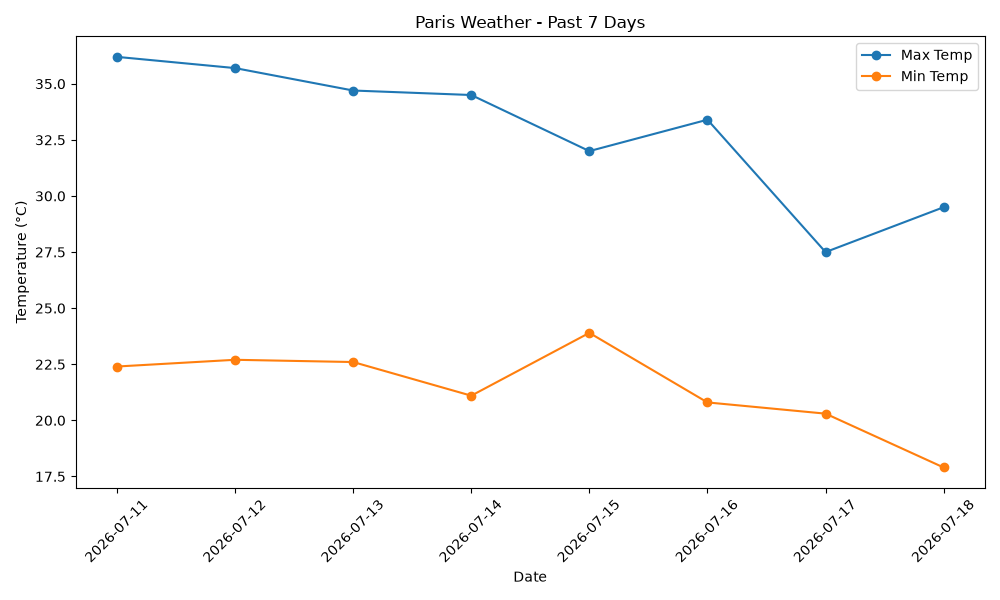
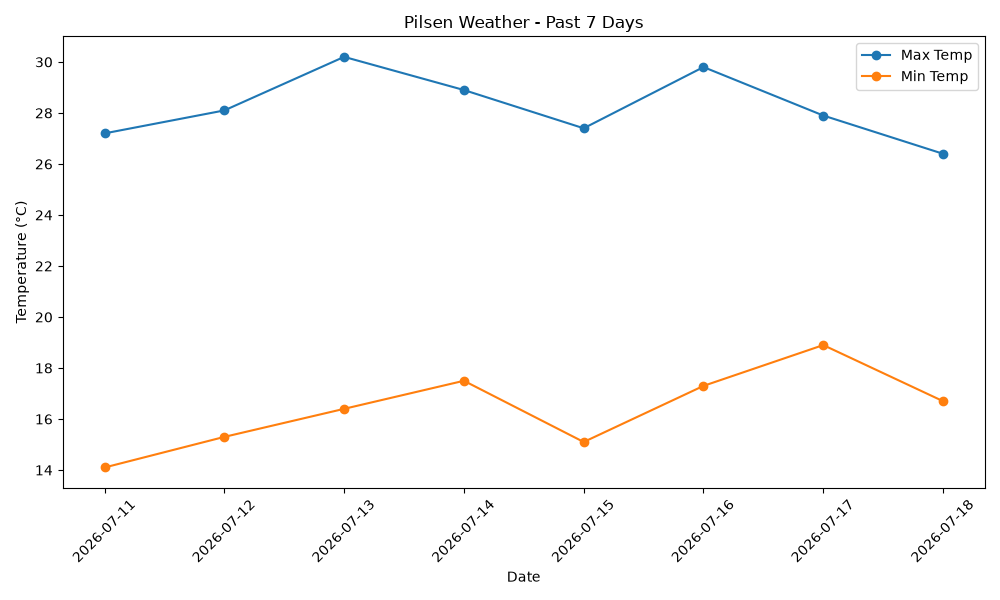
Změna souřadnic skriptu počasí z Paříže na Plzeň

diff --git a/get_data.py b/get_data.py
@@ -11,8 +11,8 @@ week_ago = today - timedelta(days=7)
 start_date = week_ago.strftime("%Y-%m-%d")
 end_date = today.strftime("%Y-%m-%d")
 
-# Get Paris weather for past week
-url = f"https://api.open-meteo.com/v1/forecast?latitude=48.85&longitude=2.35&start_date={start_date}&end_date={end_date}&daily=temperature_2m_max,temperature_2m_min"
+# Get Pilsen weather for past week
+url = f"https://api.open-meteo.com/v1/forecast?latitude=49.7384&longitude=13.3736&start_date={start_date}&end_date={end_date}&daily=temperature_2m_max,temperature_2m_min"
 
 response = requests.get(url)
 response.raise_for_status()
@@ -47,7 +47,7 @@ plt.plot(df['date'], df['min_temp'], marker='o', label='Min Temp')
 # Add labels and title
 plt.xlabel('Date')
 plt.ylabel('Temperature (°C)')
-plt.title('Paris Weather - Past 7 Days')
+plt.title('Pilsen Weather - Past 7 Days')
 plt.legend()
 
 # Rotate x-axis labels for readability
@@ -65,5 +65,5 @@ if not os.path.exists('data'):
     os.makedirs('data')
 
 # Save to CSV
-df.to_csv('data/paris_weather.csv', index=False)
-print("Data saved to data/paris_weather.csv")
+df.to_csv('data/pilsen_weather.csv', index=False)
+print("Data saved to data/pilsen_weather.csv")
